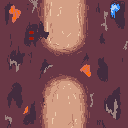
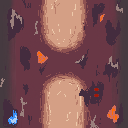
99: Add new background and tiles

diff --git a/src/core/main.ts b/src/core/main.ts
@@ -17,10 +17,10 @@ const config: Phaser.Types.Core.GameConfig = {
     width: ScreenWidth,
     height: ScreenHeight,
     parent: "game-container",
-    backgroundColor: "#693745",
+    backgroundColor: "#463a40",
     scene: [TitleScreen, LobbyScreen, GameScreen, GameUiScreen],
 };
-
+//#693745
 export const EventBus: Phaser.Events.EventEmitter =
     new Phaser.Events.EventEmitter();
 
